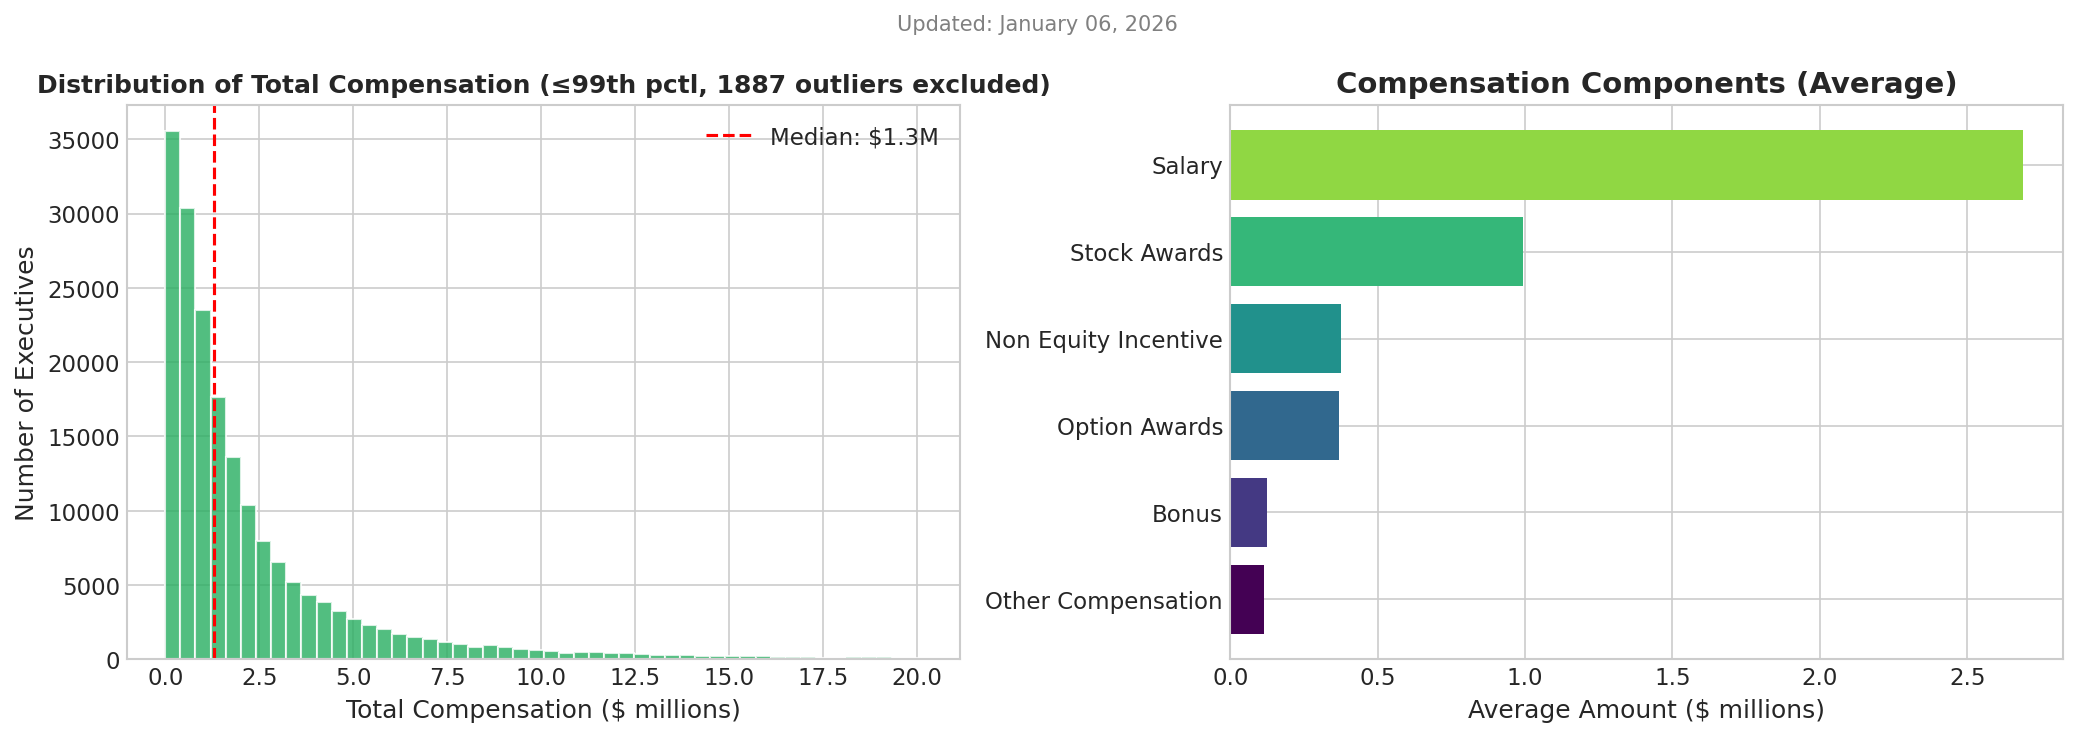
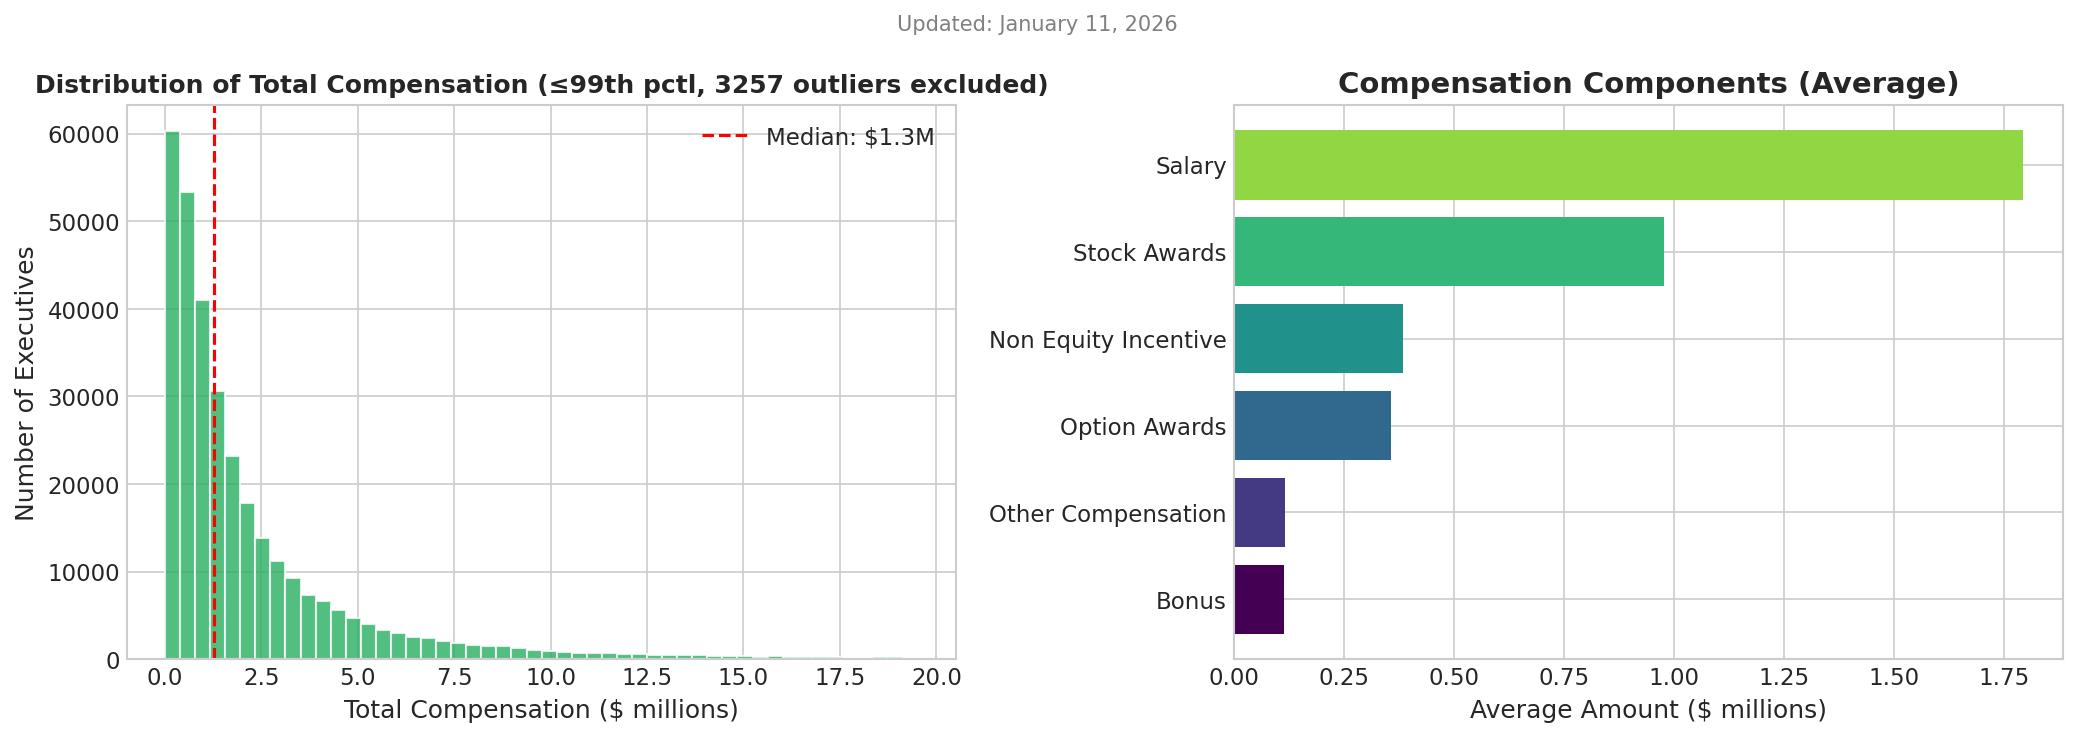
new data 2017-2018-2019

diff --git a/src/analysis/stats.py b/src/analysis/stats.py
@@ -205,7 +205,7 @@ def collect_pipeline_data(output_path: Path, tracker) -> tuple[pd.DataFrame, pd.
         exec_df['fiscal_year'] = pd.to_numeric(exec_df['fiscal_year'], errors='coerce')
         invalid_years = (
             exec_df['fiscal_year'].isna() | 
-            (exec_df['fiscal_year'] < 2000) | 
+            (exec_df['fiscal_year'] < 2005) | 
             (exec_df['fiscal_year'] > 2022)
         )
         if invalid_years.sum() > 0:
